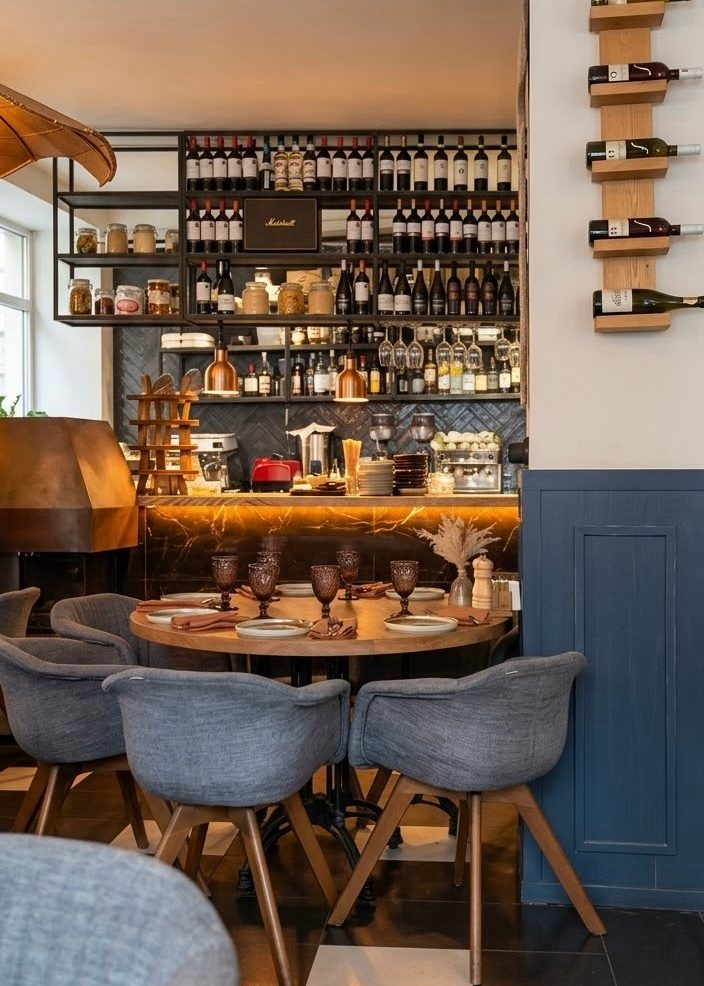
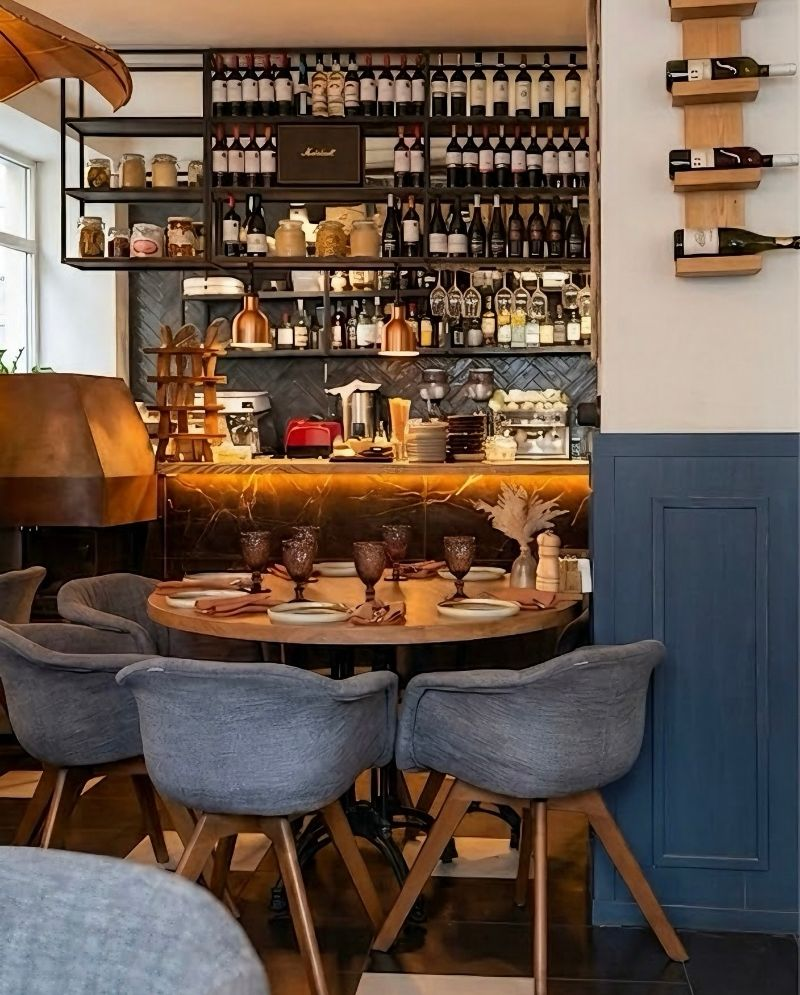
Заменить главное фото hero на реальный кадр интерьера
Новое фото — барная стойка с винной полкой и сервированный
круглый стол, тёплый свет. Сжато до 800×995 JPEG q=0.80 (142 КБ,
источник 1408×1751). Атрибуты width/height в index.html обновлены
под новый размер (было 704×986 — временный кадр первой партии).

Высота hero-секции проверена на 4 брейкпоинтах после замены:
1920×1080 → 940px (как и было после недавнего фикса раздувания
по высоте), мобильный кроп 390×844 захватывает бар и стол.

Claude-Session: https://claude.ai/code/session_01NjnDXnJXn24A7hMcnpQGE5

diff --git a/index.html b/index.html
@@ -107,7 +107,7 @@
       </div>
     </div>
     <div class="hero__media">
-      <img src="images/hero-trattoria.jpg" alt="Зал траттории «Про Италия» в Калуге" width="704" height="986" fetchpriority="high">
+      <img src="images/hero-trattoria.jpg" alt="Зал траттории «Про Италия» в Калуге" width="800" height="995" fetchpriority="high">
     </div>
   </section>
 

diff --git a/images/README.md b/images/README.md
@@ -24,7 +24,7 @@
 
 | Файл | Где используется | Размер | Что снять |
 |---|---|---|---|
-| ✅ `hero-trattoria.jpg` | фон первого экрана (правая половина) | получено 704×986 | Атмосферный кадр зала — свет, дерево, гости за столом. Вертикальный или квадратный кадр кадрируется лучше горизонтального |
+| ✅ `hero-trattoria.jpg` | фон первого экрана (правая половина) | получено 800×995 | Атмосферный кадр зала — свет, дерево, гости за столом. Вертикальный или квадратный кадр кадрируется лучше горизонтального |
 | `og-preview.jpg` | уже готов | — | Растровое превью для соцсетей уже сделано, менять не обязательно |
 
 ### Приоритет 2: галерея — 10 фото, сетка «атмосфера в кадрах»
